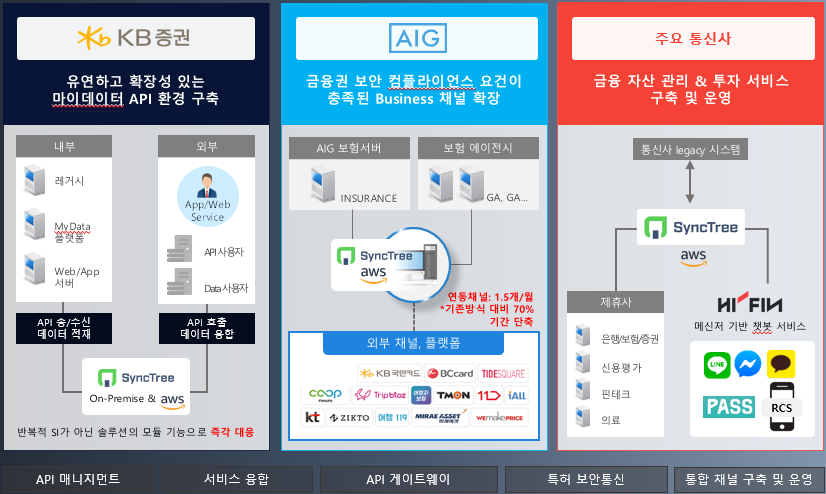
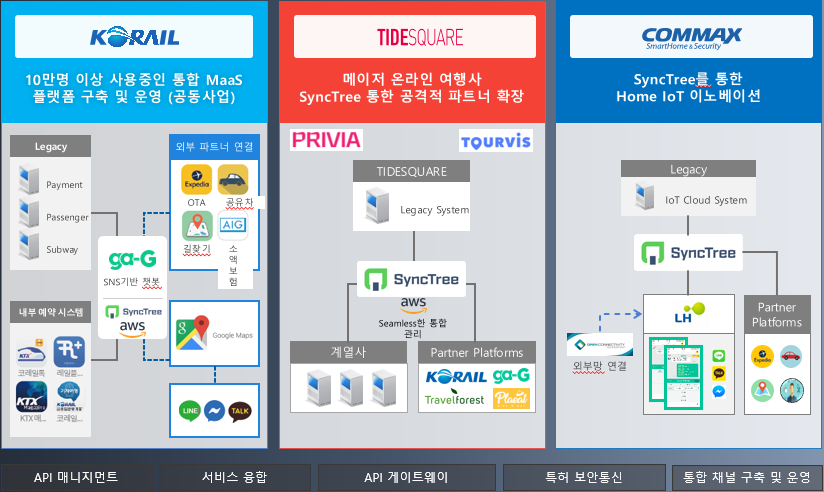
GitBook: [master] one page and 2 assets modified

diff --git a/synctree-1.md b/synctree-1.md
@@ -8,5 +8,11 @@ description: SyncTree는 다양한 고객들과 함께하고 있습니다.
 
 금융권 오픈 API 운영 보안점검 가이드를 준수하고 있으며, 마이데이터, 핀테크 사업 등을 위한 새로운 혁신적인 표준 솔루션으로 빠르게 도입되고 있습니다.
 
+![](.gitbook/assets/image%20%2846%29.png)
+
+## 비금융권 주요사례
+
+금융권에서 검증된 보안성 기반으로, 교통, 운송, 여행, IoT등 다양한 분야 적용 사례를 통해 제품의 우수성을 인정 받고 있습니다.
+
 ![](.gitbook/assets/image%20%2845%29.png)
 
